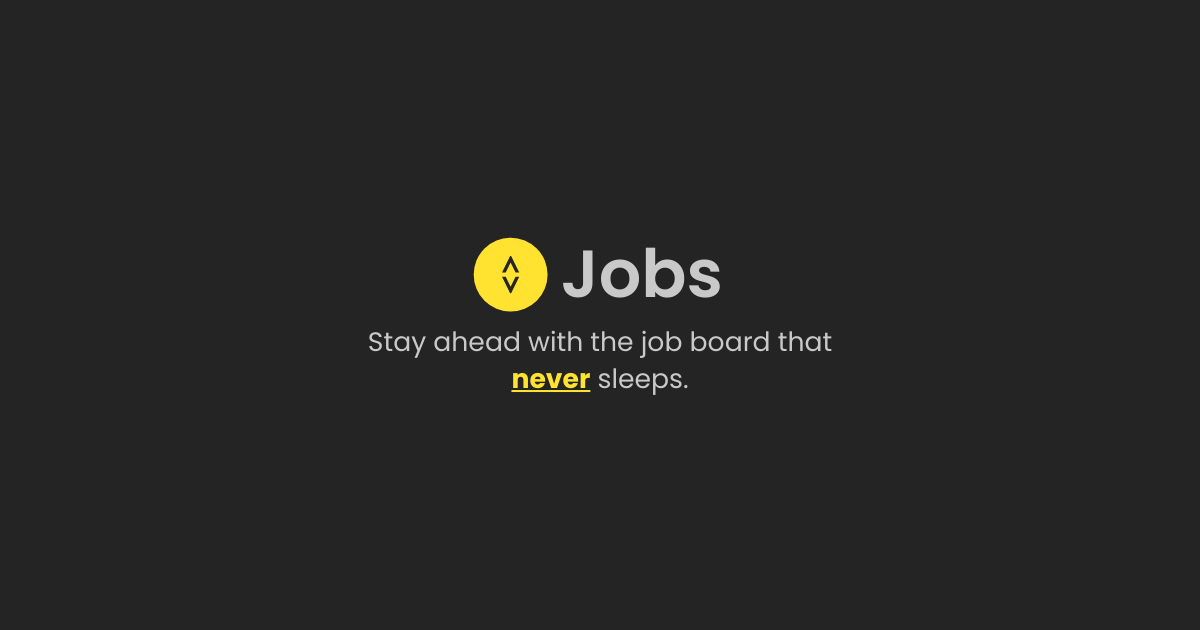
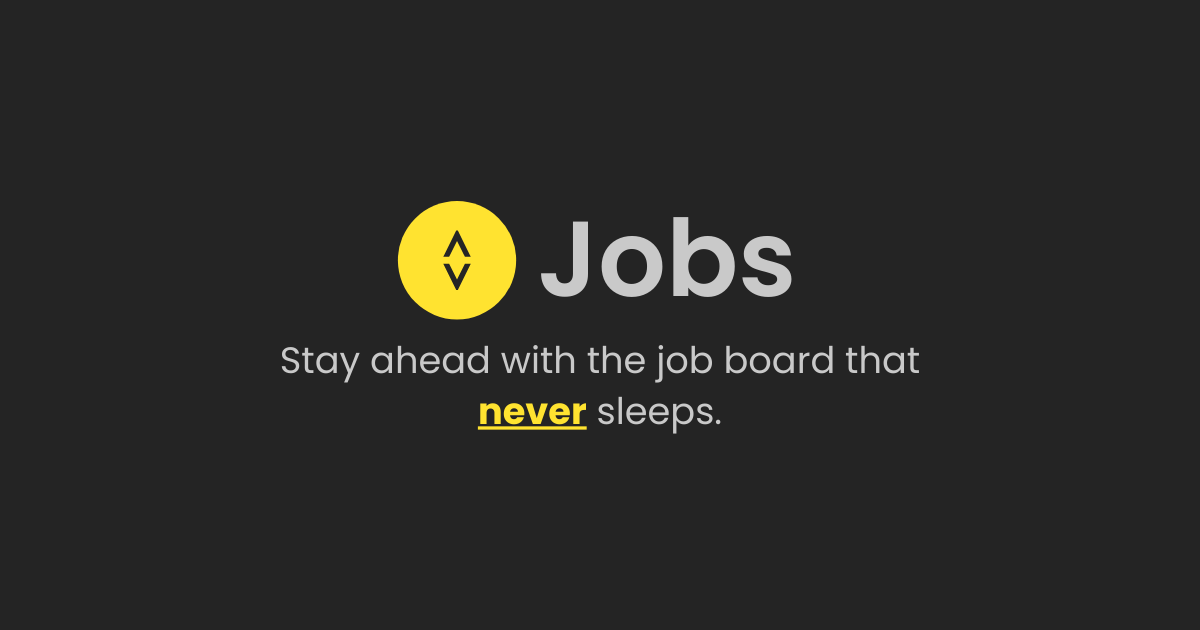
Frontend/edwin/update og and readme (#123)

Changed region(s): [[0.2158, 0.3016, 0.7708, 0.6937]]

diff --git a/README.md b/README.md
@@ -1,18 +1,28 @@
-# MPloy Job Board
+# MAC Job Board
 
-A modern job board application built with Next.js, Spring Boot, and Go, designed to help students find internships and job opportunities.
+Hey there! 👋
 
-### Frontend
-- Next.js 15 with App Router
-- React 19
-- TypeScript
-- Mantine UI
-- Tailwind CSS
+This is a modern, intelligent job board platform that automatically aggregates job listings, providing users with a streamlined experience to search, filter, and discover relevant opportunities. The platform updates daily with fresh listings through our smart AI robots.
 
-### Backend
-- Spring Boot (Kotlin)
-- Redis for caching
-- RESTful APIs
+## Features 🚀
+- Jobs update automatically every single day from various sources (automatically deduplicated)
+- We use AI to help fix, sort and summarise the listings
+- You can filter for exactly what you want (e.g. Big Tech Intern Roles for Interational students)
+- Works perfectly on phone or laptop
+
+## Frontend
+
+- Next.js 15: Utilizing the App Router for server-side rendering and optimized client-side navigation
+- React 19: For building the interactive user interface components
+- TypeScript: Ensuring type safety across the codebase
+- Mantine UI: For consistent, accessible UI components
+- Tailwind CSS: For utility-first styling and responsive design
+
+## Backend
+
+- Server Actions: Answers search and feedback requests
+- MongoDB: Stores job listings and related metadata
+- GoLang: Powers our web robots (this part is not open source)
 
 ## Getting Started
 
